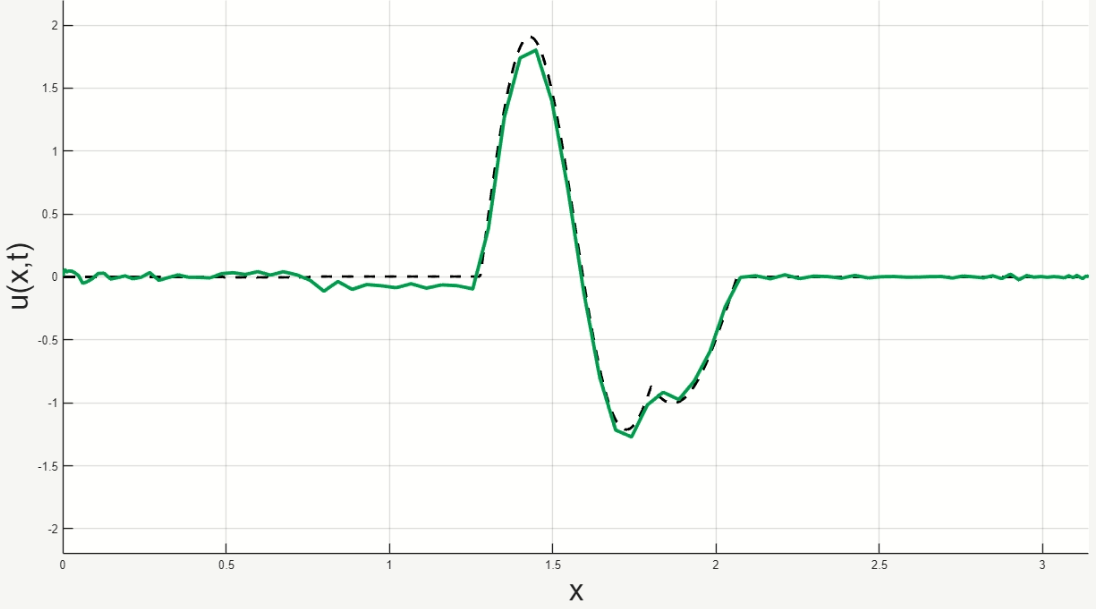
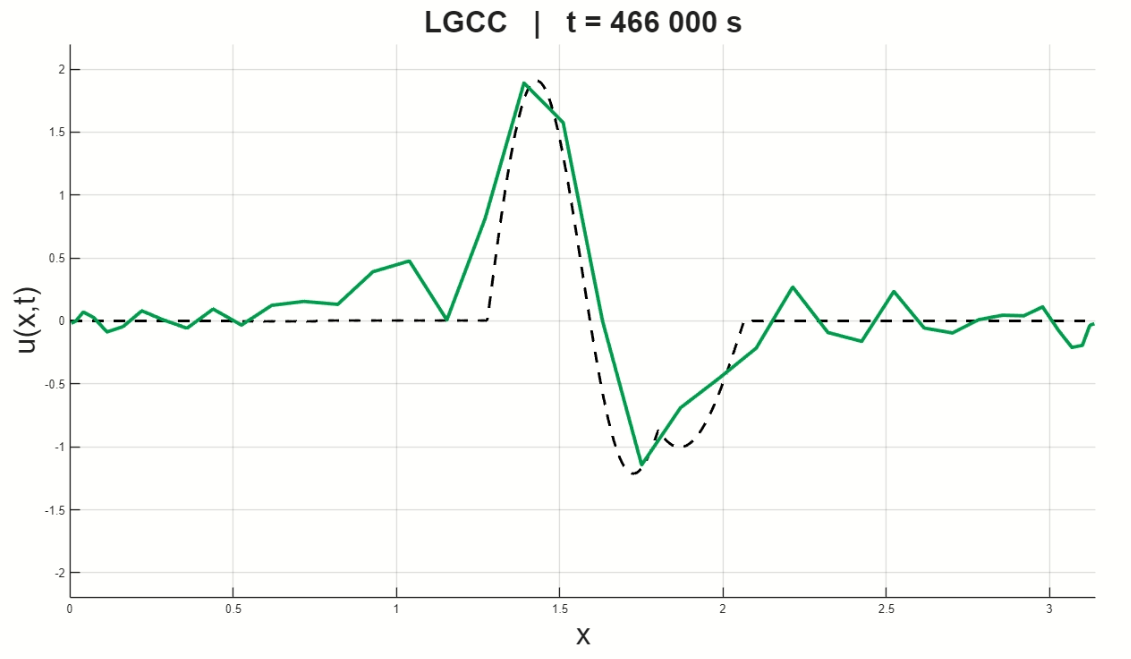
.

diff --git a/main.tex b/main.tex
@@ -1266,7 +1266,7 @@ First, we will test how one wave in this form
 \begin{equation}
     u(x,t) = \sin{(k x - \omega t)} \, 
 \end{equation}
-behaves. And where $\omega = c \cdot k $, $k = 48$, $N = 64$ and $L = \pi/8$.
+behaves. And where $\omega = c \cdot k $, $k = 6$, $N = 64$ and $L = \pi$.
 
 The time evolution can be seen in figures below. These numerical experiments clearly show that the FD is systematically slower than the FFT. And there is no visible difference between the analytic solution and the FFT solution.
 
@@ -1286,7 +1286,7 @@ Just to make sure, we ran a simulation with only DFT and the exact solution to c
 \begin{figure}[H]
     \centering
     \includegraphics[width=0.8\linewidth]{figures/pic_one_periodic_FD.png}
-    \caption{FD (blue) method separates from exact solution (black) after $t \approx 6$ s. }
+    \caption{FD (blue) method separates from exact solution (black) after $t \approx 47$ s. }
     \label{fig_one_wave_FD}
 \end{figure}
 
@@ -1294,7 +1294,7 @@ Just to make sure, we ran a simulation with only DFT and the exact solution to c
 \begin{figure}[H]
     \centering
     \includegraphics[width=0.8\linewidth]{figures/pic_one_periodic_Numerov.png}
-    \caption{Numerov (red) method separates from exact solution (black) after $t \approx 1 \, 938$ s. }
+    \caption{Numerov (red) method separates from exact solution (black) after $t \approx 9 \, 880$ s. }
     \label{}
 \end{figure}
 
@@ -1423,13 +1423,13 @@ First we will focus on wave on the interval $[0, \pi]$ in the initial form at ti
 \end{equation}
 And where $\omega = c \cdot k $,
 
-All is on interval $L = \pi$
+All is on interval $L = \pi$, $k = 10$
 
 
 \begin{figure}[H]
     \centering
     \includegraphics[width=0.8\linewidth]{figures/pic_one_dirichlet_initial_2.png}
-    \caption{Exact solution at $t \approx 0$ s.  $N = 40$ }
+    \caption{Exact solution at $t \approx 0$ s. }
     \label{}
 \end{figure}
 
@@ -1488,14 +1488,12 @@ We can see that DST is, again, the best.
 \begin{equation}
     u(x,t) = \sin{(k x - \omega_k t)} + \sin{(l x - \omega_l t)} \, ,
 \end{equation}
-where $\omega_k = c \cdot k $, $\omega_l = c \cdot l $,
-
-
+where $\omega_k = c \cdot k $, $\omega_l = c \cdot l $, $k = 8$, $l = 12$, $N = 40$ and $L = \pi$.
 
 \begin{figure}[H]
     \centering
     \includegraphics[width=0.8\linewidth]{figures/pic_two_same_dirichlet_initial.png}
-    \caption{Exact solution at $t \approx 0$ s.  $N = 100$ }
+    \caption{Exact solution at $t \approx 0$ s. }
     \label{}
 \end{figure}
 
@@ -1503,7 +1501,7 @@ where $\omega_k = c \cdot k $, $\omega_l = c \cdot l $,
 \begin{figure}[H]
     \centering
     \includegraphics[width=0.8\linewidth]{figures/pic_two_same_dirichlet_FD.png}
-    \caption{FD (blue) method separates from exact solution (black) after $t \approx 14$ s.  $N = 100$ }
+    \caption{FD (blue) method separates from exact solution (black) after $t \approx 8$ s.}
     \label{}
 \end{figure}
 
@@ -1511,7 +1509,7 @@ where $\omega_k = c \cdot k $, $\omega_l = c \cdot l $,
 \begin{figure}[H]
     \centering
     \includegraphics[width=0.8\linewidth]{figures/pic_two_same_dirichlet_Numerov.png}
-    \caption{Numerov (red) method separates from exact solution (black) after $t \approx 460$ s.  $N = 100$ }
+    \caption{Numerov (red) method separates from exact solution (black) after $t \approx 83$ s. }
     \label{}
 \end{figure}
 
@@ -1519,28 +1517,28 @@ where $\omega_k = c \cdot k $, $\omega_l = c \cdot l $,
 \begin{figure}[H]
     \centering
     \includegraphics[width=0.8\linewidth]{figures/pic_two_same_dirichlet_CDM.png}
-    \caption{Simulation with CDM (brown) and exact solution (black) that ran for $t \approx 446 \, 000$ s. $N = 100$}
+    \caption{Simulation with CDM (brown) and exact solution (black) that ran for $t \approx 466 \, 000$ s.}
     \label{}
 \end{figure}
 
 \begin{figure}[H]
     \centering
     \includegraphics[width=0.8\linewidth]{figures/pic_two_same_dirichlet_MBCDM.png}
-    \caption{Simulation with MBCDM (orange) and exact solution (black) that ran for $t \approx 466 \, 000$ s. $N = 100$}
+    \caption{Simulation with MBCDM (orange) and exact solution (black) that ran for $t \approx 466 \, 000$ s.}
     \label{}
 \end{figure}
 
 \begin{figure}[H]
     \centering
     \includegraphics[width=0.8\linewidth]{figures/pic_two_same_dirichlet_LGCC.png}
-    \caption{Simulation with LGCC (green) and exact solution (black) that ran for $t \approx 466 \, 000$ s. $N = 100$}
+    \caption{Simulation with LGCC (green) and exact solution (black) that ran for $t \approx 466 \, 000$ s.}
     \label{}
 \end{figure}
 
 \begin{figure}[H]
     \centering
     \includegraphics[width=0.8\linewidth]{figures/pic_two_same_dirichlet_DST.png}
-    \caption{Simulation with DST (magenta) and exact solution (black) that ran for $t \approx 466 \, 000$ s. $N = 100$}
+    \caption{Simulation with DST (magenta) and exact solution (black) that ran for $t \approx 466 \, 000$ s.}
     \label{}
 \end{figure}
 
@@ -1552,12 +1550,12 @@ We can see that DST is, again, the best.
 \begin{equation}
     u(x,t) = \sin{(k x - \omega_k t)} + \sin{(l x + \omega_l t)} \, ,
 \end{equation}
-where $\omega_k = c \cdot k $, $\omega_l = c \cdot l $,
+where $\omega_k = c \cdot k $, $\omega_l = c \cdot l $, $k = 8$, $l = 12$, $N = 40$ and $L = \pi$.
 
 \begin{figure}[H]
     \centering
     \includegraphics[width=0.8\linewidth]{figures/pic_two_opposite_dirichlet_initial.png}
-    \caption{Exact solution at $t \approx 0$ s.  $N = 100$ }
+    \caption{Exact solution at $t \approx 0$ s.}
     \label{}
 \end{figure}
 
@@ -1565,7 +1563,7 @@ where $\omega_k = c \cdot k $, $\omega_l = c \cdot l $,
 \begin{figure}[H]
     \centering
     \includegraphics[width=0.8\linewidth]{figures/pic_two_opposite_dirichlet_FD.png}
-    \caption{FD (blue) method separates from exact solution (black) after $t \approx 13$ s.  $N = 100$ }
+    \caption{FD (blue) method separates from exact solution (black) after $t \approx 7$ s.}
     \label{}
 \end{figure}
 
@@ -1573,7 +1571,7 @@ where $\omega_k = c \cdot k $, $\omega_l = c \cdot l $,
 \begin{figure}[H]
     \centering
     \includegraphics[width=0.8\linewidth]{figures/pic_two_opposite_dirichlet_Numerov.png}
-    \caption{Numerov (red) method separates from exact solution (black) after $t \approx 470$ s.  $N = 100$ }
+    \caption{Numerov (red) method separates from exact solution (black) after $t \approx 76$ s.   }
     \label{}
 \end{figure}
 
@@ -1581,28 +1579,28 @@ where $\omega_k = c \cdot k $, $\omega_l = c \cdot l $,
 \begin{figure}[H]
     \centering
     \includegraphics[width=0.8\linewidth]{figures/pic_two_opposite_dirichlet_CDM.png}
-    \caption{Simulation with CDM (brown) and exact solution (black) that ran for $t \approx 470 \, 000$ s. $N = 100$}
+    \caption{Simulation with CDM (brown) and exact solution (black) that ran for $t \approx 470 \, 000$ s.}
     \label{}
 \end{figure}
 
 \begin{figure}[H]
     \centering
     \includegraphics[width=0.8\linewidth]{figures/pic_two_opposite_dirichlet_MBCDM.png}
-    \caption{Simulation with MBCDM (orange) and exact solution (black) that ran for $t \approx 470 \, 000$ s. $N = 100$}
+    \caption{Simulation with MBCDM (orange) and exact solution (black) that ran for $t \approx 470 \, 000$ s. }
     \label{}
 \end{figure}
 
 \begin{figure}[H]
     \centering
     \includegraphics[width=0.8\linewidth]{figures/pic_two_opposite_dirichlet_LGCC.png}
-    \caption{Simulation with LGCC (green) and exact solution (black) that ran for $t \approx 470 \, 000$ s. $N = 100$}
+    \caption{Simulation with LGCC (green) and exact solution (black) that ran for $t \approx 470 \, 000$ s.}
     \label{}
 \end{figure}
 
 \begin{figure}[H]
     \centering
     \includegraphics[width=0.8\linewidth]{figures/pic_two_opposite_dirichlet_DST.png}
-    \caption{Simulation with DST (magenta) and exact solution (black) that ran for $t \approx 470 \, 000$ s. $N = 100$}
+    \caption{Simulation with DST (magenta) and exact solution (black) that ran for $t \approx 470 \, 000$ s.}
     \label{}
 \end{figure}
 
